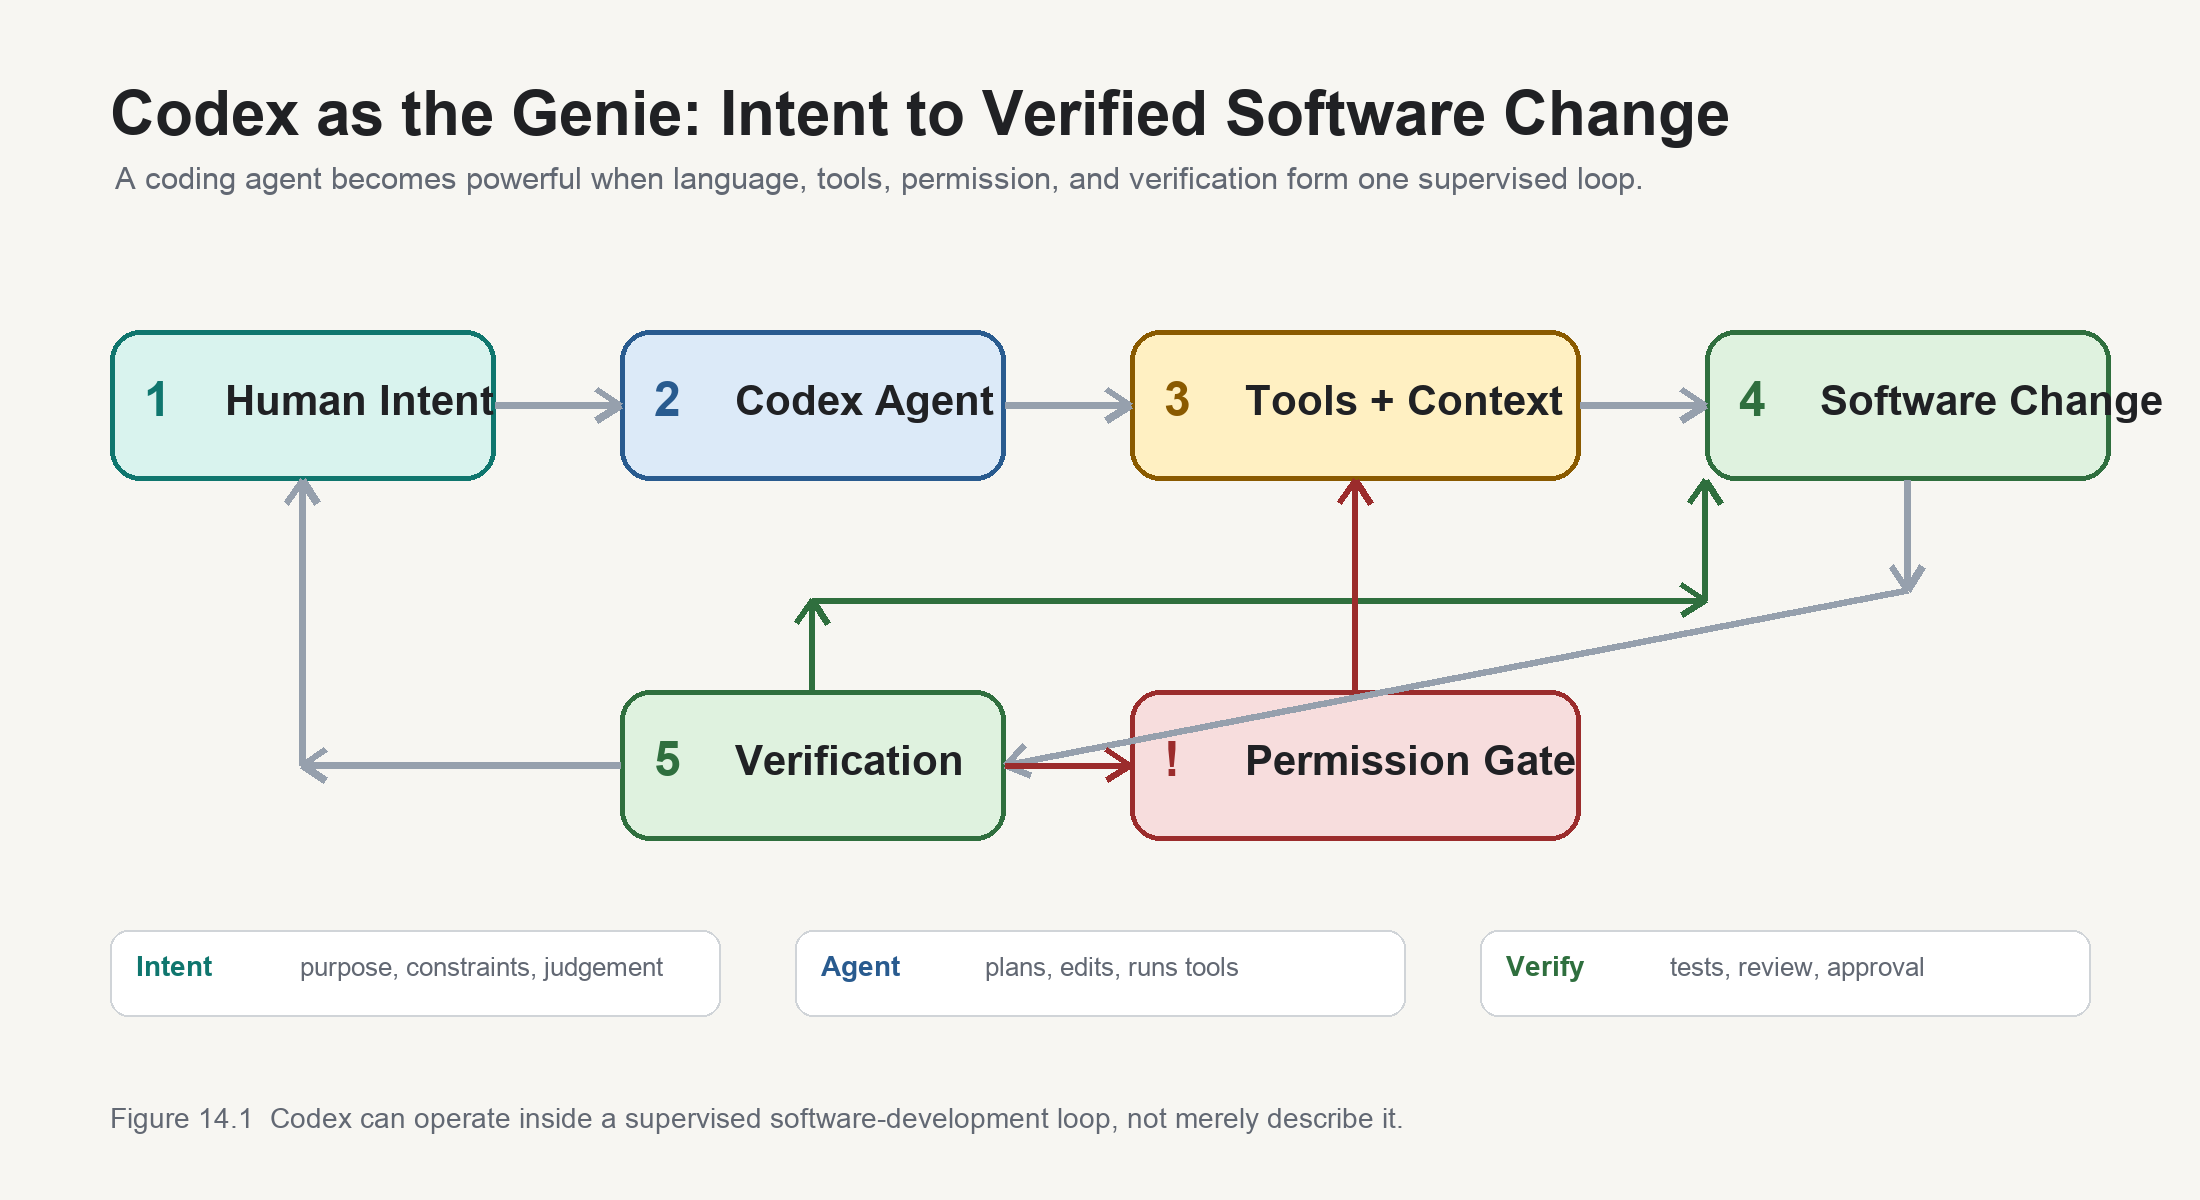
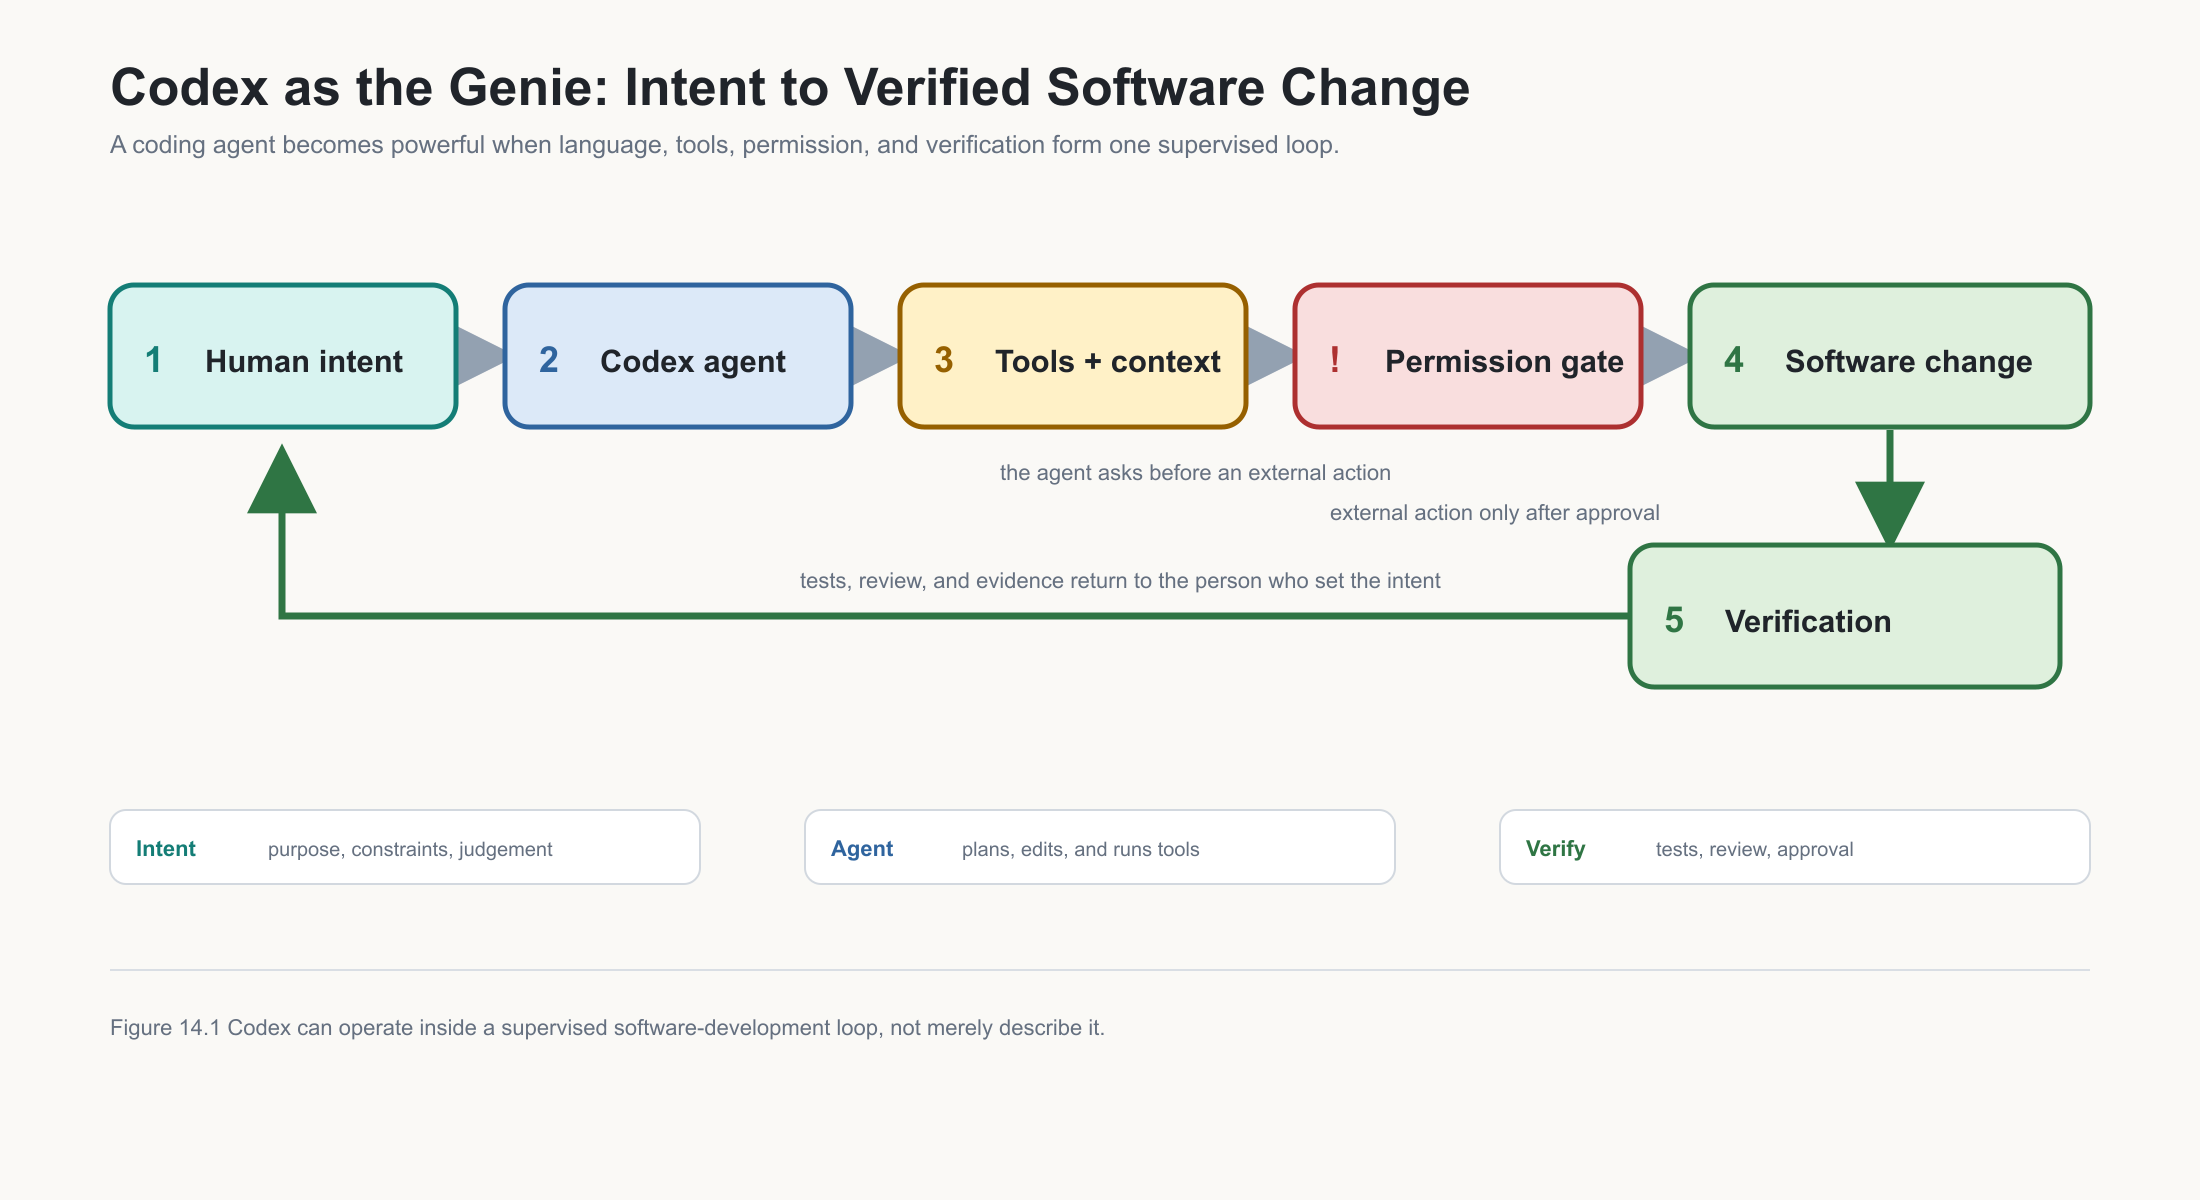
Fix Codex workflow diagram

diff --git a/content/index.md b/content/index.md
@@ -10,7 +10,7 @@ socialImage: "figures/cover.png"
 
 **Desmond Kwang, written with artificial intelligence**
 
-**Version 1.0.0 · Build 23**
+**Version 1.0.0 · Build 24**
 
 ![Book cover](figures/cover.png)
 
